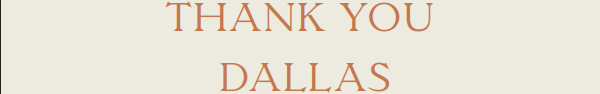
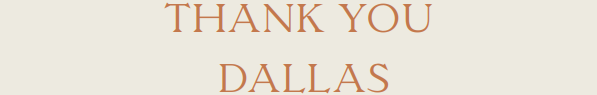
fix

diff --git a/pdf-to-html/emails/costa-palmas.tsx b/pdf-to-html/emails/costa-palmas.tsx
@@ -39,7 +39,7 @@ export default function CostapalmasEmail() {
 						/>
 
 						<Section className="bg-[#ede9df] w-[600px] px-[30px] py-10 mx-auto">
-							<img src="" alt="title_1" />
+							<img src="https://raw.githubusercontent.com/saimaneim/PDF-to-HTML/refs/heads/main/pdf-to-html/static/title_1.png" alt="title_1" />
 
 							<div className="mb-4 w-[500px] mx-auto space-y-0 leading-tight text-left">
 								<Text className={textCommonStyles}>
